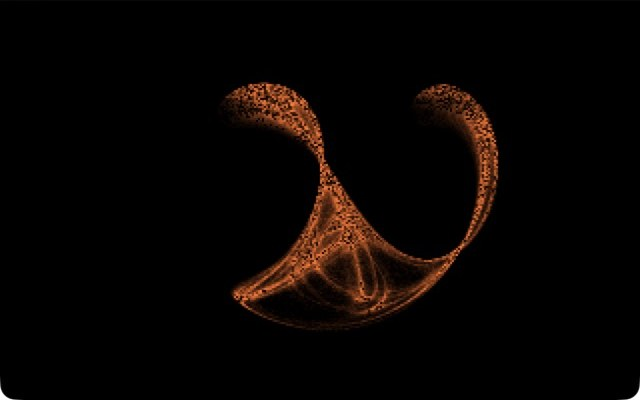
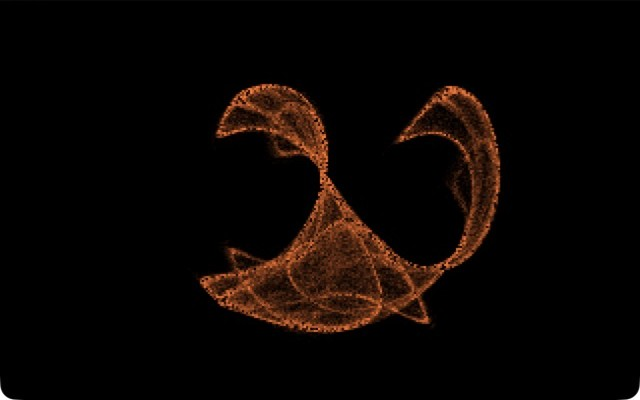
Full README with fresh DOSBox screenshots (GALAXY early/late, CLIFF, SELFTEX)

Changed region(s): [[0.3125, 0.21, 0.7812, 0.84]]

diff --git a/README.md b/README.md
@@ -1,74 +1,230 @@
 # uber256-lab
 
-**Experiments in the 256-byte class: strange attractors on the x87 FPU, and a texture made of the program's own code.**
+**Three 256-byte-class DOS demos: two strange attractors drawn on the x87 FPU, and a texture made of the program's own machine code.**
 
 [![CI](https://github.com/djayuffe/uber256-lab/actions/workflows/ci.yml/badge.svg)](https://github.com/djayuffe/uber256-lab/actions/workflows/ci.yml)
 
-![GALAXY, CLIFF and SELFTEX running in DOSBox](docs/gallery.jpg)
+![GALAXY (two moments of its morph), CLIFF and SELFTEX running in DOSBox](docs/gallery.jpg)
 
-Three real-mode DOS `.COM` programs in NASM, each under 256 bytes. All three were run in
-real DOSBox for the screenshots and are checked by an emulated-CPU test suite.
+*Real DOSBox 0.74-3 captures of the shipped binaries. Top row: GALAXY at the start and about a minute in.
+Bottom row: CLIFF and SELFTEX.*
 
-| Program | Size | What it is |
-|---|---|---|
-| `GALAXY.COM` | 205 B | de Jong attractor, 6000 orbit points per frame, accumulated into a fading glow buffer. Two parameters drift, so the shape slowly morphs. The orbit also tunes the PC speaker. |
-| `CLIFF.COM` | 210 B | The same engine with Clifford-attractor equations and parameters: two wings and a ring of caustics. |
-| `SELFTEX.COM` | 77 B | Pixel = a byte of the program's own machine code, indexed by `x*y/64 + time`. The hyperbolic bands are the code's byte pattern. |
+Everything here is a flat 16-bit real-mode `.COM` file written in NASM. There are no images, no data files, no
+libraries, and no DOS calls except setting the video mode and leaving. Every pixel, every palette colour and every
+sound is computed by a few hundred bytes of code.
+
+| Program | Size | Needs | What it is |
+|---|---|---|---|
+| [`GALAXY.COM`](src/galaxy.asm) | 205 B | 386 + FPU, VGA | A de Jong strange attractor drawn as a glowing, fading, slowly morphing cloud. The orbit also tunes the PC speaker. |
+| [`CLIFF.COM`](src/cliff.asm) | 210 B | 386 + FPU, VGA | The same engine with Clifford-attractor equations and parameters: two curling wings over a web of caustics. |
+| [`SELFTEX.COM`](src/selftex.asm) | 77 B | 386, VGA | Each pixel is a byte of the program's own machine code, picked by `x*y/64 + time`. The hyperbolic bands you see are the code. |
+
+## Contents
+
+- [Run it](#run-it)
+- [Screenshots](#screenshots)
+- [GALAXY and CLIFF in detail](#galaxy-and-cliff-in-detail)
+- [SELFTEX in detail](#selftex-in-detail)
+- [Ideas from the 256-byte brief: what was tried](#ideas-from-the-256-byte-brief-what-was-tried)
+- [Testing](#testing)
+- [Releases and CI](#releases-and-ci)
+- [Limitations](#limitations)
+- [Layout](#layout)
 
 ## Run it
 
+Download the `.COM` files from the [latest release](../../releases/latest) and run one in
+[DOSBox](https://www.dosbox.com/):
+
+```
+mount c .
+c:
+GALAXY.COM
+```
+
+Or build from source (needs [NASM](https://www.nasm.us/); on macOS `brew install nasm` and `brew install --cask dosbox`):
+
 ```sh
-./build.sh              # NASM build, enforces the 256-byte limit
+./build.sh              # assembles src/*.asm, enforces the 256-byte limit, writes SHA256SUMS
 ./run-dosbox.sh galaxy  # galaxy | cliff | selftex
 ```
 
-**Esc** exits to text mode. GALAXY and CLIFF need a 386+ with an FPU (`fninit`, `fsin`, `fcos`);
-any emulator or machine from the 486DX on is fine. Use `cycles=max` (shipped in `DOSBOX.CONF`).
-The speaker tone is generated, but I have not listened to it, so its sound is untested by ear.
+**Esc** quits each demo cleanly: it restores text mode 3 and returns to DOS. `DOSBOX.CONF` sets `cycles=max`.
+The attractors compute 6000 points per frame with trigonometry, so they want a fast CPU; at a low fixed cycle count
+they just run at a lower frame rate.
 
-## How the attractor fits in 205 bytes
+## Screenshots
 
-- The palette is streamed to the DAC (port 3C9h) with a `shr` chain: one loop, no table.
-- Each orbit step is `x' = sin(a*y) - cos(b*x)`, `y' = sin(c*x) - cos(d*y)` with the four
-  constants in a 28-byte data block. `fxch` / `fstp st2` swap the new point in without temporaries.
-- `fistp` turns the point into a pixel offset (`y*320 + x` with `imul ax,ax,320`) and the pixel
-  gets `add byte [es:di], 4`, so hot regions glow.
-- After each frame the whole 64 KB segment is faded with `v -= v>>4; v -= 1` in one `stosb` loop
-  run by `loop` with CX already 0, so 65536 passes cover the segment exactly once.
-- Scratch words for the pixel position live just past the end of the file, inside the segment.
+All captured from the real binaries in DOSBox.
+
+| | |
+|---|---|
+| ![GALAXY early](docs/galaxy-early.jpg) | ![GALAXY later](docs/galaxy-late.jpg) |
+| **GALAXY, start.** The de Jong orbit is a spray of arcs fanning out of a bright point. Brightness is the number of times the orbit has landed on a pixel. | **GALAXY, about a minute later.** Two of the four parameters drift every frame, so the same engine turns into a different object: the arcs close into spheres around a dense core. |
+| ![CLIFF](docs/cliff.jpg) | ![SELFTEX](docs/selftex.jpg) |
+| **CLIFF.** A Clifford attractor: two wings, with bright caustic edges where the orbit piles up. | **SELFTEX.** The program's own bytes as a texture. The curves are where `x*y/64 + time` keeps landing on similar code bytes. |
+
+## GALAXY and CLIFF in detail
+
+The two programs share almost all of their code and differ in the equations and constants. They are an
+*accumulating-orbit renderer*: iterate a 2D map thousands of times, add a little light to the pixel under each
+point, and fade the whole screen slightly every frame.
+
+### The map
+
+GALAXY iterates the de Jong map
+
+```
+x' = sin(a*y) - cos(b*x)
+y' = sin(c*x) - cos(d*y)          a = 1.4, b = -2.3, c = 2.4, d = -2.1
+```
+
+and CLIFF the Clifford map
+
+```
+x' = sin(a*y) + c*cos(a*x)
+y' = sin(b*x) + d*cos(b*y)        a = -1.4, b = 1.6, c = 1.0, d = 0.7
+```
+
+Both keep (x, y) as the top two entries of the FPU stack. One iteration is about twenty x87 instructions
+(`fld`, `fmul`, `fsin`, `fcos`, `fsubp` or `faddp`, `fxch`, `fstp`). The four parameters are read straight from memory
+with `fmul dword [bx+k]`, so the whole constant block is 28 bytes.
+
+### From orbit to pixel
+
+The point is scaled by 45, rounded with `fistp` into two scratch words, and turned into a screen offset:
+
+```
+imul ax,[bx+22],320     ; y * 320
+add  ax,[bx+20]         ; + x
+add  ax,32160           ; + 100*320 + 160: the centre of the 320x200 screen
+xchg ax,di
+add  byte [es:di],12    ; add light
+```
+
+The scratch words live just past the end of the file, inside the program's own 64 KB segment, so they cost no
+bytes. A pixel's brightness is the number of orbit hits it has received (12 per hit), which is what makes dense
+regions glow and sparse ones stay faint.
+
+### Palette
+
+The DAC (port 3C9h) is programmed by one small loop that writes red, green and blue from a single counter with a
+`shr` between writes: `R = i/4`, `G = i/8`, `B = i/16`. That is a black, red, orange, near-white "fire" ramp with no table.
+
+### Fade and timing
+
+After 6000 points the program waits for the vertical retrace (port 3DAh bit 3), then makes one pass over all
+65,536 bytes of the segment: `v = v - (v >> 4) - 1`, clamped at zero by `sub al,1` / `adc al,0`. The `loop`
+instruction does the counting; CX is already 0 at that point, so 65,536 passes cover the segment exactly once.
+Light therefore decays exponentially, and a moving attractor leaves soft trails.
+
+### Morphing
+
+Each frame, parameters `a` and `d` (offsets 0 and 12) are nudged by a small constant (0.0006 for GALAXY, 0.0004 for
+CLIFF) in a two-pass loop (`mov si,12` ... `sub si,12` / `jnc`). The attractor slowly turns into related ones, which is
+why screenshots a minute apart look like different objects.
+
+### Sound
+
+The speaker is enabled with `mov al,3` / `out 61h,al`, and PIT channel 2 is reprogrammed every frame with the low byte
+of the orbit's current x coordinate (`out 42h,al`, then the high byte 3), so the pitch follows the attractor.
+**I have not listened to this**: the tests verify the port writes, not the audio.
+
+### Why 386 + FPU
+
+The code is assembled with `CPU 386` for `imul ax,[mem],imm` and the x87 instructions, and calls `fninit` once at
+start-up. DOSBox emulates an FPU; on real hardware a 486DX or later (or a 386 with a 387) is needed.
+
+## SELFTEX in detail
+
+```
+pixel(x, y) = the byte at offset  ((x*y >> 6) + t) & 255  from 100h      ; the program's own bytes
+```
+
+The 77-byte program gets `x` and `y` from one `div` by 320 in a DI loop that wraps the 64 KB segment, multiplies
+them, shifts, adds a frame counter, and uses the result as an index into its **own code**, which sits at
+offset 100h. The "texture" is the machine code itself: runs of similar opcodes show up as flat areas and the
+rest as a coloured scatter. `x*y` is a hyperbola, so the constant-index contours are the curves in the screenshot,
+and adding the frame counter slides the whole pattern.
+
+The palette is streamed to the DAC as `i`, `2i`, `4i` (the DAC keeps the low 6 bits), so each byte value is a distinct,
+fairly saturated colour. It is the smallest idea in the repo, and the one that most directly asks what the
+program looks like when you view it as an image.
 
 ## Ideas from the 256-byte brief: what was tried
 
+The project started from a long brief of 256-byte-intro techniques. The honest outcome:
+
 | Idea | Result |
 |---|---|
-| Dynamical systems / attractors on the FPU | **Works** (GALAXY, CLIFF). |
-| Accumulation buffer with fade (feedback) | **Works**, used by both attractors. |
-| Parameter morphing | **Works**: two constants drift per frame. |
-| Orbit-driven PIT sound | Implemented; unheard. |
-| Code as texture / lookup table | **Works** (SELFTEX). Verified in DOSBox. |
-| Neighbour-averaging feedback ("nebula") | Failed: averaging halves the energy, the screen goes black. Dropped. |
-| Carry-flag cellular automaton | Prototyped (six variants); not good enough to ship. |
-| Integer equation search scored by compressibility | Ran; candidates not better than the attractors, none shipped. |
-| Genetic search over tiny programs | Earlier work in [uber-micro-demos](https://github.com/djayuffe/uber-micro-demos) (EVO1/EVO2). |
-| VGA latch / CRTC scroll tricks, single phase-transition system | Not attempted yet. |
+| Dynamical systems / strange attractors on the FPU | **Works.** GALAXY and CLIFF. |
+| Accumulation buffer with fade (framebuffer feedback) | **Works.** Used by both attractors. |
+| Parameter morphing | **Works.** Two parameters drift per frame. |
+| Palette generated by code (no table) | **Works.** All three demos. |
+| Orbit-driven PIT sound | Implemented; **unheard**. |
+| Code as texture / lookup table | **Works.** SELFTEX. |
+| Neighbour-averaging feedback ("nebula") | **Failed.** Averaging halves the energy each frame, so the screen goes black. Dropped. |
+| Carry-flag cellular automaton | Six variants prototyped; none good enough to ship. |
+| Integer-expression search scored by compressibility | Ran; no candidate beat the attractors, so none shipped. |
+| Genetic search over tiny programs | See [uber-micro-demos](https://github.com/djayuffe/uber-micro-demos) (EVO1, EVO2). |
+| VGA latch / CRTC scroll tricks, a single phase-transition system | Not attempted. |
 
 ## Testing
 
-`tests/run_tests.sh` builds and runs every `.COM` in an emulated 16-bit CPU (Unicorn, x87 included):
-size limit, mode 13h first, all 768 DAC values, the picture is drawn and stays on screen, many
-brightness levels, the picture changes between frames, FPU opcodes present, speaker programmed,
-no stray memory access, and Esc returns to text mode.
+`tests/run_tests.sh` builds everything and runs each `.COM` in an emulated 16-bit CPU
+([Unicorn](https://www.unicorn-engine.org/), x87 included), entered the way DOS enters a program
+(`CX = 00FFh`, `SI = 0100h`, `DX = 0192h`, `BP = 091Ch`). INT, IN and OUT are trapped. It runs 33 checks:
+
+- **All demos:** at most 256 bytes; the first call is `INT 10h` with AX = 0013h; all 768 DAC values are written and the
+  palette is not black; no memory is touched outside video RAM and the program's own segment.
+- **GALAXY and CLIFF:** FPU opcodes are present; a curve (500 to 30,000 lit pixels) is drawn and stays inside the
+  screen; many brightness levels appear (accumulation rather than on/off); the picture changes between frames;
+  the speaker is on and PIT channel 2 is re-tuned.
+- **SELFTEX:** a rich, textured screen (dozens of colours); it scrolls between frames; no sound.
+- **All demos:** pressing Esc ends with `INT 10h` AX = 3 and a clean return to DOS.
+
+An emulator cannot judge how a demo looks, so each one was also run in real DOSBox and captured (the screenshots above).
+Needs Python 3; the script installs `unicorn` into `./.venv`.
+
+## Releases and CI
+
+Every push and pull request builds the demos, enforces the 256-byte limit and runs the tests on GitHub Actions. To publish a release,
+add a section to `CHANGELOG.md` and push a tag:
+
+```sh
+git tag v1.2.0 && git push origin v1.2.0
+```
+
+The release workflow rebuilds, re-tests, and attaches the `.COM` files, `SHA256SUMS` and the gallery image, with that section as the notes.
+
+## Limitations
+
+- GALAXY and CLIFF need an FPU and are not meant for slow machines.
+- The speaker output has never been listened to.
+- The attractors were tuned by eye in DOSBox; the glow palette may look slightly different on other VGA hardware.
+- Only 320x200 VGA mode 13h is used, and the programs do not check that the machine has VGA.
+- Not tried on real hardware.
 
 ## Layout
 
 ```
-src/*.asm           the demos
-build.sh            NASM build + 256-byte gate
+src/galaxy.asm      de Jong attractor
+src/cliff.asm       Clifford attractor
+src/selftex.asm     self-code texture
+build.sh            NASM build + 256-byte gate + SHA256SUMS
 run-dosbox.sh       DOSBox launcher
+DOSBOX.CONF         DOSBox settings (cycles=max)
 tests/              emulator tests
 docs/               real DOSBox screenshots
+CHANGELOG.md        release notes
 .github/workflows/  CI and tag-driven releases
 ```
 
-MIT licence. Sibling projects: [uber-micro-demos](https://github.com/djayuffe/uber-micro-demos) (under 9 bytes),
-[uber-tiny-demos](https://github.com/djayuffe/uber-tiny-demos) (index).
+## Related
+
+[uber-micro-demos](https://github.com/djayuffe/uber-micro-demos) (28 demos under 9 bytes) and
+[uber-tiny-demos](https://github.com/djayuffe/uber-tiny-demos) (the index of these projects).
+
+## License
+
+MIT. See [LICENSE](LICENSE).
